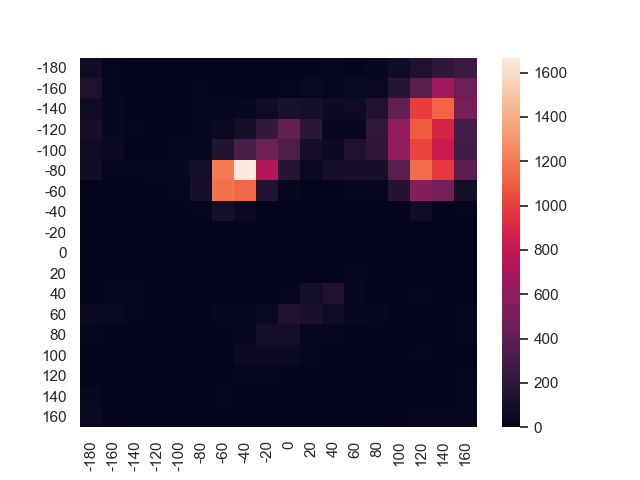
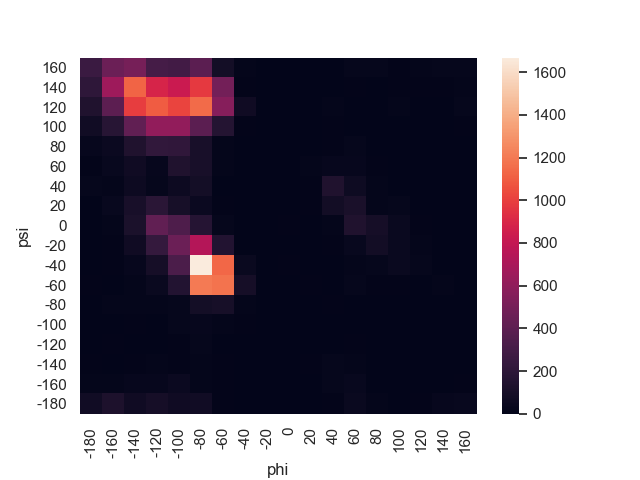
add proper heatmap with correct axis

diff --git a/assignment3/src/heatmap.py b/assignment3/src/heatmap.py
@@ -14,28 +14,35 @@ PATH = '../res/data_all.csv'
 PHI = "phi"
 PSI = "psi"
 boxsize = 360 // nr_boxes
-ticks = np.arange(-180, 180, boxsize)
-
+indexOffset = nr_boxes // 2
+yticks = np.arange(-180, 180, boxsize)
+xticks = np.arange(-180,180, boxsize)
 # use pandas to read csv
 df = pd.read_csv(PATH)
 df = df[[PHI, PSI]]
 df = df.astype(int)
 
 # apply function which gets index based on value
-df = df.apply(lambda x: x // boxsize + (nr_boxes // 2))
+df = df.apply(lambda x: x // boxsize + indexOffset )
 
 # create matrix for heatmap, init as zeros
 matrix = np.zeros((nr_boxes, nr_boxes), dtype=int)
 
 # increment values in matrix based on index
 for row in df.itertuples(index=False):
-    matrix[row[0]][row[1]] += 1
+    matrix[row[1]][row[0]] += 1
 
 # check if all datapoints have been counted'
 print("Have all " + str(len(df.index)) + " entries been counted? True/False")
 print(len(df.index) == np.sum(matrix))
 
+# in order to get similar axis distr as scatterplot, flip matrix in y, also flip yticks
+matrix = np.flip(matrix, axis=0)
+yticks = np.flip(yticks)
+
 # create heatmap
-ax = sns.heatmap(matrix, xticklabels=ticks, yticklabels=ticks)
+ax = sns.heatmap(matrix, xticklabels=xticks, yticklabels=yticks)
+plt.xlabel("phi")
+plt.ylabel("psi")
 
 plt.show()

diff --git a/assignment3/src/scatterplot.py b/assignment3/src/scatterplot.py
@@ -2,13 +2,17 @@
 import pandas as pd
 import matplotlib.pyplot as plt
 import seaborn as sns; sns.set_theme()
+import numpy as np
+
 
 # Setup constants
-PATH = '../res/data_200.csv'
+PATH = '../res/data_all.csv'
 PHI = "phi"
 PSI = "psi"
 
 # use pandas to read csv
 df = pd.read_csv(PATH)
 df.plot.scatter(x=PHI, y=PSI)
+plt.yticks(np.arange(-180, 181, 40))
+plt.xticks(np.arange(-180, 181, 40))
 plt.show()
